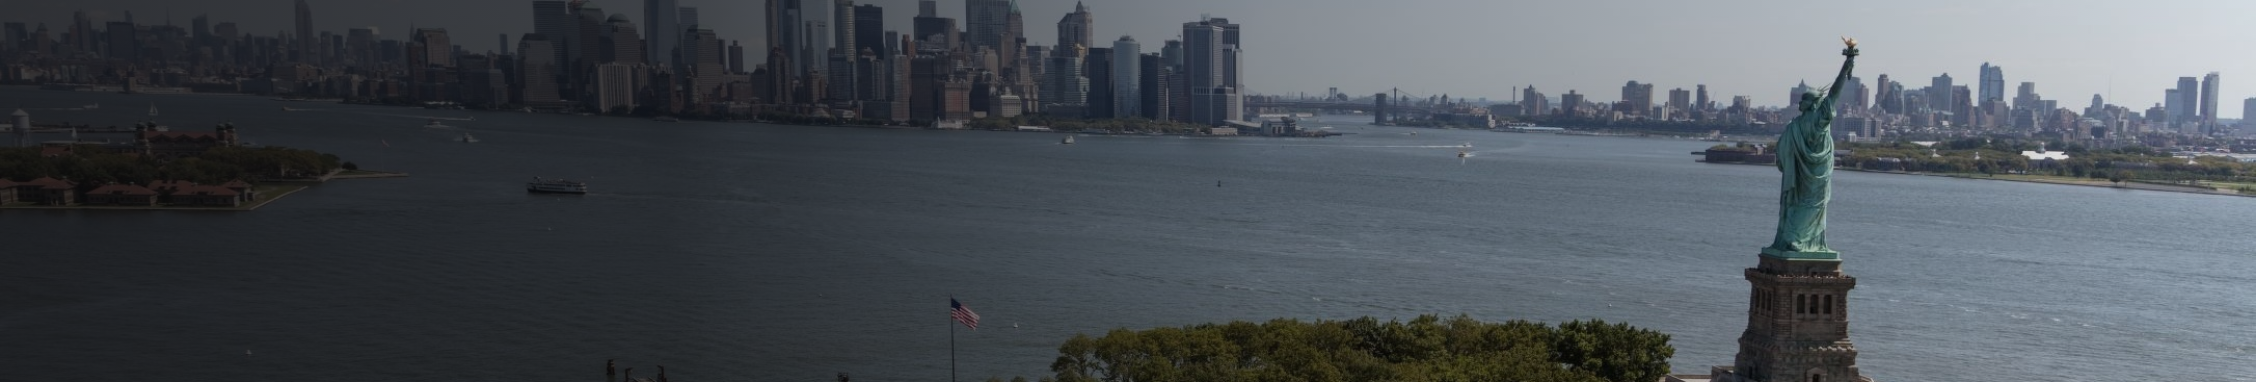
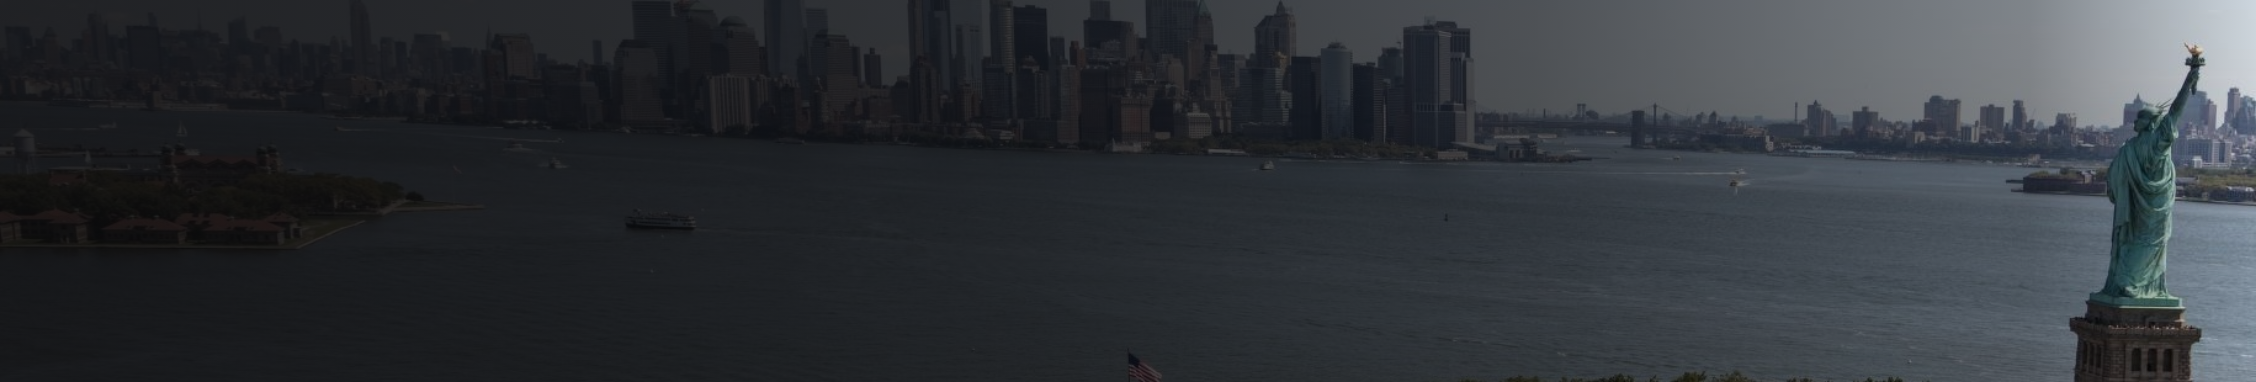
Cover: headline on one line at 44px, gradient rebalanced
One line is wider than one line of the old two-line block, so it reached further
right over brighter water and skyline -- measured 1.96:1 (headline) and 2.33:1
(eyebrow), both fails. The gradient now holds density to ~90% and only clears at
the far right where the statue stands.

Final measurements, on a background-only render:
  headline  4.53:1  (44px, large text, needs 3:1)
  eyebrow  12.12:1
  routes   11.52:1
  statue zone still lit (max luminance 208/255)

Sizing: at 44px the line is 683px, ending x=951 against a statue edge detected at
x=1042 -- 91px clear. An earlier attempt measured the h1 CONTAINER (1076) instead
of the painted text, which made the line look 145px too wide and nearly led to
shrinking the type for no reason.

diff --git a/banner/photo-01.html b/banner/photo-01.html
@@ -44,12 +44,18 @@
      they multiplied and crushed the photo to near-black, losing the statue. */
   .stage__grad {
     position: absolute; inset: 0;
+    /* Rebalanced for the ONE-LINE layout. A single line is wider than one line of
+       the old two-line block, so it reaches further right into brighter water and
+       skyline -- measured 1.96:1 there, a fail. The gradient now holds its density
+       out to ~90% and only clears at the far right, where the statue stands. */
     background: linear-gradient(
       90deg,
-      rgba(11,11,12,0.86) 0%,
-      rgba(11,11,12,0.74) 26%,
-      rgba(11,11,12,0.48) 52%,
-      rgba(11,11,12,0.10) 100%
+      rgba(11,11,12,0.88) 0%,
+      rgba(11,11,12,0.84) 26%,
+      rgba(11,11,12,0.78) 46%,
+      rgba(11,11,12,0.66) 68%,
+      rgba(11,11,12,0.44) 90%,
+      rgba(11,11,12,0.08) 100%
     );
   }
 
@@ -67,12 +73,12 @@
     margin-top: 14px;
     font-family: Geist, system-ui, sans-serif;
     font-weight: 500;
-    font-size: 38px;
+    font-size: 44px;
     line-height: 1.06;
-    letter-spacing: -0.028em;
+    letter-spacing: -0.032em;
     color: #fbfaf8;
     text-shadow: 0 1px 4px rgba(6,6,7,0.60);
-    max-width: 560px;
+    white-space: nowrap;
   }
   /* the single accent: "borderless" is the word the brand rests on */
   h1 em {
@@ -83,7 +89,7 @@
   }
 
   .routes {
-    position: absolute; left: 268px; top: 150px;
+    position: absolute; left: 268px; top: 122px;
     font-family: "Departure Mono", monospace;
     font-size: 12px; letter-spacing: 0.15em; text-transform: uppercase;
     color: #cdc9c2;
@@ -97,7 +103,7 @@
     <div class="stage__grad"></div>
     <div class="copy">
       <p class="labels">Global talent mobility</p>
-      <h1>Making exceptional<br>talent <em>borderless</em>.</h1>
+      <h1>Making exceptional talent <em>borderless</em>.</h1>
     </div>
     <p class="routes">O-1A &middot; EB-1A &middot; EB-2 NIW &middot; UK Global Talent</p>
   </div>
